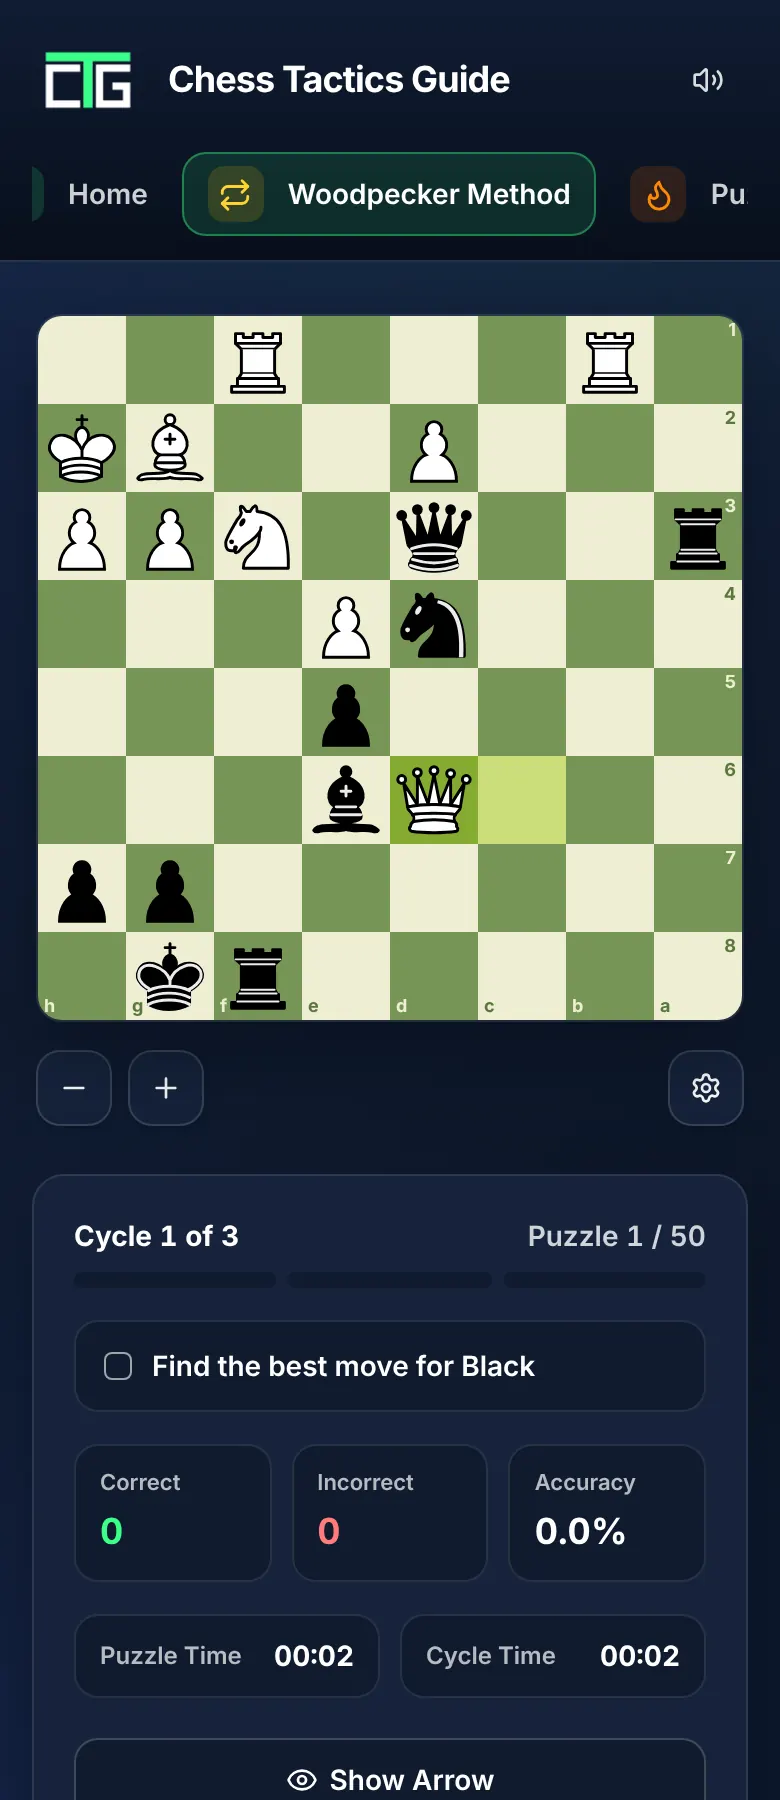
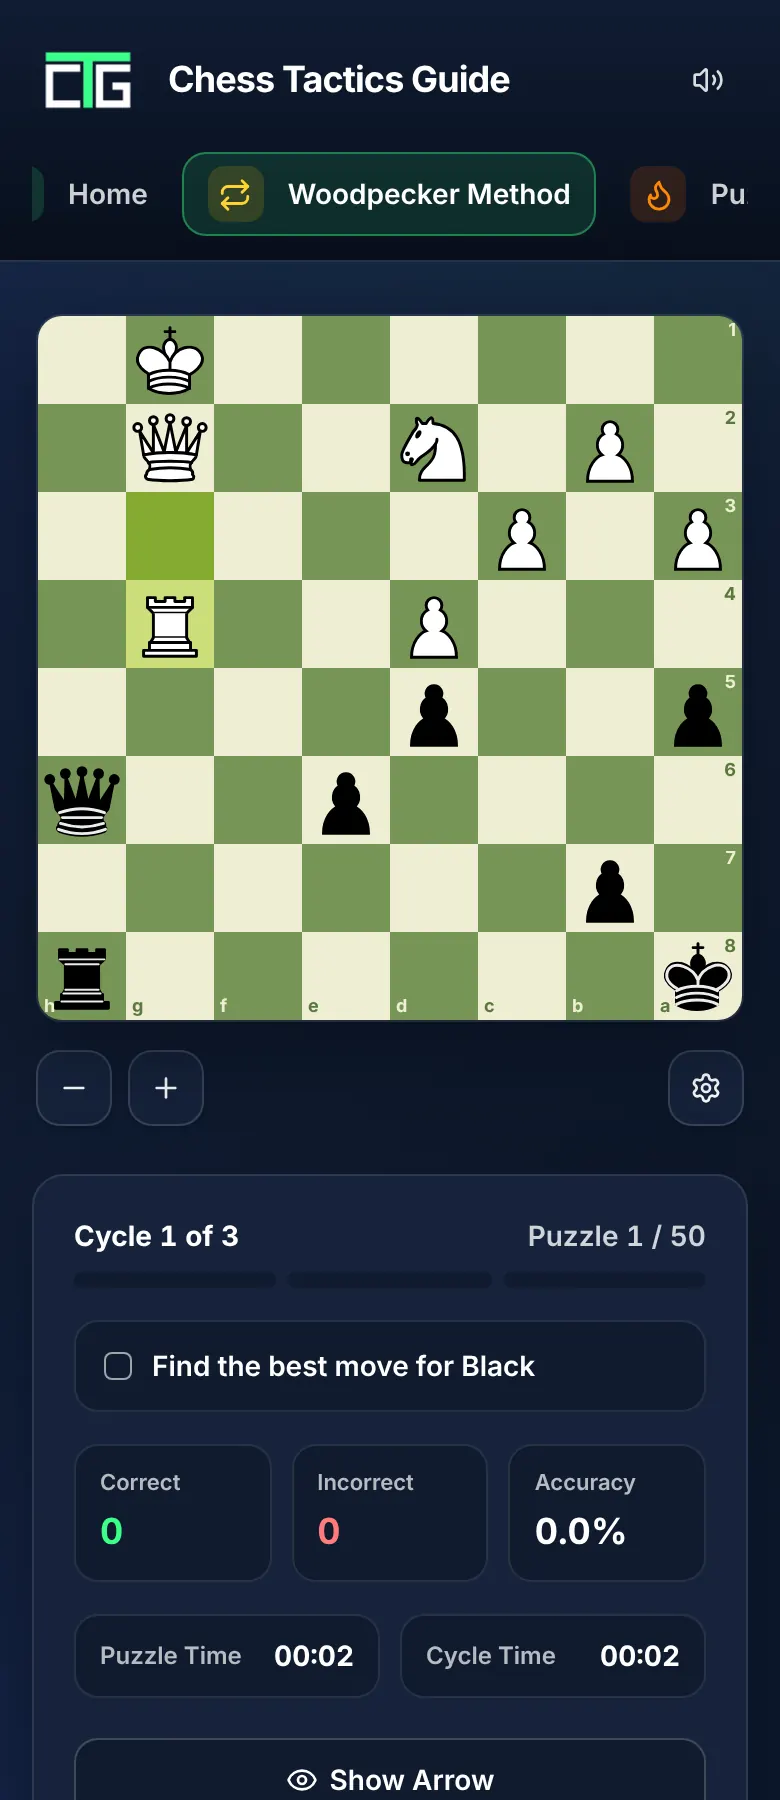
Random waiting position on the board; different phone screens on Home
Woodpecker, Puzzle Streak, Puzzle Survival and Blindfold showed the same position every time before a run. One of 14 positions is now picked each time the page opens.

Claude-Session: https://claude.ai/code/session_01YC5JRCiqqynmWYQfTxD754

diff --git a/src/hooks/usePuzzleSolver.ts b/src/hooks/usePuzzleSolver.ts
@@ -10,9 +10,8 @@ import type { PendingPromotion } from '../components/ChessboardPanel';
 import type { Puzzle } from '../types';
 import { applyUciMove, getLegalDests, isPromotionMove } from '../utils/chessHelpers';
 import { playMoveSound } from '../utils/sound';
+import { randomPreviewFen } from '../utils/preview';
 
-/** Shown on the board before a run starts (same position as Woodpecker). */
-export const PREVIEW_FEN = '1K1k4/1P6/8/8/8/8/r7/2R5 w - - 0 1';
 
 const SETUP_MOVE_DELAY_MS = 200;
 const REPLY_DELAY_MS = 280;
@@ -41,26 +40,29 @@ interface Options {
   onFailed: (puzzle: Puzzle, info: FailedInfo) => void;
 }
 
-const PREVIEW_BOARD: SolverBoard = {
-  fen: PREVIEW_FEN,
-  orientation: 'white',
-  turnColor: 'white',
-  dests: new Map(),
-  lastMove: undefined,
-  check: false,
-  locked: true,
-};
+function previewBoard(fen: string): SolverBoard {
+  return {
+    fen,
+    orientation: 'white',
+    turnColor: 'white',
+    dests: new Map(),
+    lastMove: undefined,
+    check: false,
+    locked: true,
+  };
+}
 
 const colorOf = (chess: Chess): Color => (chess.turn() === 'w' ? 'white' : 'black');
 const asKey = (square: string) => square as Key;
 
 export function usePuzzleSolver({ onSolved, onFailed }: Options) {
-  const [board, setBoard] = useState<SolverBoard>(PREVIEW_BOARD);
+  const [firstPreview] = useState(() => randomPreviewFen());
+  const [board, setBoard] = useState<SolverBoard>(() => previewBoard(firstPreview));
   const [syncToken, setSyncToken] = useState(0);
   const [hintArrow, setHintArrow] = useState<[Key, Key] | null>(null);
   const [pendingPromotion, setPendingPromotion] = useState<PendingPromotion | null>(null);
 
-  const chessRef = useRef(new Chess(PREVIEW_FEN));
+  const chessRef = useRef(new Chess(firstPreview));
   const puzzleRef = useRef<Puzzle | null>(null);
   const moveIndexRef = useRef(1);
   const settledRef = useRef(true);
@@ -139,8 +141,9 @@ export function usePuzzleSolver({ onSolved, onFailed }: Options) {
     setHintArrow(null);
     puzzleRef.current = null;
     settledRef.current = true;
-    chessRef.current = new Chess(PREVIEW_FEN);
-    setBoard(PREVIEW_BOARD);
+    const preview = randomPreviewFen();
+    chessRef.current = new Chess(preview);
+    setBoard(previewBoard(preview));
     setSyncToken((t) => t + 1);
   }, [clearTimers]);
 

diff --git a/src/App.tsx b/src/App.tsx
@@ -25,8 +25,8 @@ import { playMoveSound } from './utils/sound';
 import { recordFinishedCycles } from './utils/woodpeckerHistory';
 import { nextCycle, resumeAfterReview, reviewSession, trimOldAttempts, type ReviewItem } from './utils/review';
 import { readSavedUsername } from './utils/profile';
+import { randomPreviewFen } from './utils/preview';
 
-const PREVIEW_FEN = '1K1k4/1P6/8/8/8/8/r7/2R5 w - - 0 1';
 
 interface BoardState {
   fen: string;
@@ -55,8 +55,9 @@ export default function App() {
     message: string;
   }>({ type: 'idle', message: 'Find the best move' });
 
+  const [firstPreview] = useState(() => randomPreviewFen());
   const [boardState, setBoardState] = useState<BoardState>({
-    fen: PREVIEW_FEN,
+    fen: firstPreview,
     playerColor: 'white',
     turnColor: 'white',
     dests: new Map(),
@@ -64,7 +65,7 @@ export default function App() {
     locked: true,
   });
 
-  const chessRef = useRef<Chess>(new Chess(PREVIEW_FEN));
+  const chessRef = useRef<Chess>(new Chess(firstPreview));
   const moveIndexRef = useRef<number>(1);
   const timersRef = useRef<number[]>([]);
   const lastTickRef = useRef<number>(Date.now());
@@ -153,9 +154,10 @@ export default function App() {
 
     if (!session || session.status !== 'training' || !currentPuzzle) {
       if (!session) {
-        chessRef.current = new Chess(PREVIEW_FEN);
+        const preview = randomPreviewFen();
+        chessRef.current = new Chess(preview);
         setBoardState({
-          fen: PREVIEW_FEN,
+          fen: preview,
           playerColor: 'white',
           turnColor: 'white',
           dests: new Map(),

diff --git a/src/utils/preview.ts b/src/utils/preview.ts
@@ -1,0 +1,25 @@
+// The position on the board before a run starts (Woodpecker, Puzzle Streak, Puzzle Survival, Blindfold). It used to be the
+// same one every time; now one of these is picked each time the page opens, so the board looks different on every visit.
+// All of them are ordinary positions that are not over: both kings, the side to move is not in check.
+export const PREVIEW_FENS: readonly string[] = [
+  '1K1k4/1P6/8/8/8/8/r7/2R5 w - - 0 1',
+  'r3k2r/pppq1ppp/2n1bn2/3pp3/3PP3/2N1BN2/PPPQ1PPP/R3K2R w KQkq - 0 1',
+  'rnbqkb1r/pp2pppp/3p1n2/8/3NP3/2N5/PPP2PPP/R1BQKB1R b KQkq - 2 5',
+  'r1bqkbnr/pppp1ppp/2n5/4p3/2B1P3/5N2/PPPP1PPP/RNBQK2R b KQkq - 3 3',
+  '6k1/5ppp/8/8/8/8/5PPP/3R2K1 w - - 0 1',
+  '2r3k1/5pp1/p3p2p/1p6/1P2P3/P4P2/5KPP/3R4 w - - 0 1',
+  '3r2k1/1p3ppp/p7/8/8/P3Q3/1P3PPP/6K1 w - - 0 1',
+  '8/5pk1/6p1/7p/7P/6P1/5PK1/8 w - - 0 1',
+  '8/8/4k3/8/4PK2/8/8/8 w - - 0 1',
+  'r1bq1rk1/ppp2ppp/2n1bn2/3pp3/1b2P3/2NP1N2/PPP1BPPP/R1BQ1RK1 w - - 0 1',
+  '4r1k1/pp3ppp/2n5/3p4/3P1B2/2P2N2/PP3PPP/4R1K1 w - - 0 1',
+  'rnbqkbnr/pppp1ppp/8/4p3/2P5/8/PP1PPPPP/RNBQKBNR w KQkq - 0 2',
+  '3k4/8/3K4/3P4/8/8/8/8 w - - 0 1',
+  'r4rk1/1pp2ppp/p1n1bn2/4p3/4P3/1BN1BN2/PPP2PPP/2KR3R w - - 0 1',
+];
+
+/** A position for the board that waits for a run to start; never `not` the one just shown, when that is given. */
+export function randomPreviewFen(not?: string): string {
+  const options = PREVIEW_FENS.filter((fen) => fen !== not);
+  return options[Math.floor(Math.random() * options.length)];
+}

diff --git a/src/pages/blindfold/Mate.tsx b/src/pages/blindfold/Mate.tsx
@@ -17,7 +17,7 @@ import TrainerLayout from '../../components/TrainerLayout';
 import { UnlockLinks, LOCKED_CLASS, LockMark, UnlockNotice, useLocks } from '../../components/locks';
 import { authHeaders, useAuth } from '../../auth';
 import { canOpenBlindfold, clampBlindfold, tierFor, unlockHint } from '../../utils/access';
-import { PREVIEW_FEN } from '../../hooks/usePuzzleSolver';
+import { randomPreviewFen } from '../../utils/preview';
 import { useAppearance } from '../../hooks/useAppearance';
 import {
   BLINDFOLD_LEVELS,
@@ -67,6 +67,7 @@ export default function Mate({ username, mode, onModeChange }: BlindfoldModeProp
   }));
   const [appearance, setAppearance] = useAppearance();
 
+  const [previewFen] = useState(() => randomPreviewFen());
   const [phase, setPhase] = useState<Phase>('setup');
   const [items, setItems] = useState<BlindfoldItem[]>([]);
   const [index, setIndex] = useState(0);
@@ -272,7 +273,7 @@ export default function Mate({ username, mode, onModeChange }: BlindfoldModeProp
   const sideName = current ? (current.position.playerColor === 'white' ? 'White' : 'Black') : '';
   const running = phase === 'memorize' || phase === 'answer' || phase === 'feedback';
 
-  let boardFen = PREVIEW_FEN;
+  let boardFen = previewFen;
   let orientation: 'white' | 'black' = 'white';
   let lastMove: [Key, Key] | undefined;
   let arrow: [Key, Key] | null = null;

diff --git a/src/pages/blindfold/Reconstruct.tsx b/src/pages/blindfold/Reconstruct.tsx
@@ -17,7 +17,7 @@ import {
 import TrainerLayout from '../../components/TrainerLayout';
 import { authHeaders } from '../../auth';
 import { useAppearance } from '../../hooks/useAppearance';
-import { PREVIEW_FEN } from '../../hooks/usePuzzleSolver';
+import { randomPreviewFen } from '../../utils/preview';
 import { fetchBlindfoldRound, levelDescription, type BlindfoldItem } from '../../utils/blindfold';
 import { recordActivity } from '../../utils/activity';
 import { EMPTY_PLACEMENT } from '../../utils/editor';
@@ -92,6 +92,7 @@ export default function Reconstruct({ username, mode, onModeChange, kind, onKind
   const [settings, setSettings] = useState<ReconstructSettings>(() => loadReconstructSettings());
   const [phase, setPhase] = useState<Phase>('setup');
   const [items, setItems] = useState<BlindfoldItem[]>([]);
+  const [previewFen] = useState(() => randomPreviewFen());
   const [index, setIndex] = useState(0);
   const [msLeft, setMsLeft] = useState(0);
   const [placement, setPlacement] = useState(EMPTY_PLACEMENT);
@@ -318,7 +319,7 @@ export default function Reconstruct({ username, mode, onModeChange, kind, onKind
   } else {
     board = (
       <ViewBoard
-        fen={PREVIEW_FEN}
+        fen={previewFen}
         orientation="white"
         syncToken={0}
         boardTheme={appearance.boardTheme}

diff --git a/src/components/WelcomeIntro.tsx b/src/components/WelcomeIntro.tsx
@@ -8,7 +8,7 @@ import PricingPlans from './PricingPlans';
 const CARD = 'bg-[#16233b] border border-white/10 rounded-2xl shadow-[0_16px_44px_rgba(4,9,20,0.45)]';
 
 const SHOTS = {
-  streak: { src: '/welcome/phone-streak.webp', alt: 'Puzzle Streak on a phone: a puzzle on the board and the current streak under it' },
+  survival: { src: '/welcome/phone-survival.webp', alt: 'Puzzle Survival on a phone: a puzzle on the board and three lives under it' },
   woodpecker: { src: '/welcome/phone-woodpecker.webp', alt: 'The Woodpecker Method on a phone: a puzzle on the board, with the cycle, the accuracy and the timers under it' },
 };
 
@@ -157,7 +157,7 @@ export default function WelcomeIntro({ signedIn, premium }: { signedIn: boolean;
         </div>
         {/* Two whole phones, side by side, the left one a little lower: the board and the panel under it show in full. */}
         <div className="flex justify-center items-start gap-4 sm:gap-5">
-          <Phone shot={SHOTS.streak} className="w-[44%] max-w-[250px] mt-12" />
+          <Phone shot={SHOTS.survival} className="w-[44%] max-w-[250px] mt-12" />
           <Phone shot={SHOTS.woodpecker} className="w-[44%] max-w-[250px]" />
         </div>
       </section>

diff --git a/src/utils/preview.test.ts b/src/utils/preview.test.ts
@@ -1,0 +1,26 @@
+import assert from 'node:assert/strict';
+import { test } from 'node:test';
+import { Chess } from 'chess.js';
+import { PREVIEW_FENS, randomPreviewFen } from './preview.ts';
+
+test('every waiting position is an ordinary position that is not over', () => {
+  assert.ok(PREVIEW_FENS.length >= 10);
+  assert.equal(new Set(PREVIEW_FENS).size, PREVIEW_FENS.length);
+  for (const fen of PREVIEW_FENS) {
+    const chess = new Chess(fen);
+    assert.equal(chess.isGameOver(), false, fen);
+    assert.equal(chess.inCheck(), false, fen);
+    assert.ok(chess.moves().length > 0, fen);
+  }
+});
+
+test('the position changes: it is one of the list, and not the one just shown', () => {
+  const seen = new Set<string>();
+  for (let i = 0; i < 200; i++) {
+    const fen = randomPreviewFen();
+    assert.ok(PREVIEW_FENS.includes(fen));
+    seen.add(fen);
+    assert.notEqual(randomPreviewFen(fen), fen);
+  }
+  assert.ok(seen.size > 5);
+});
